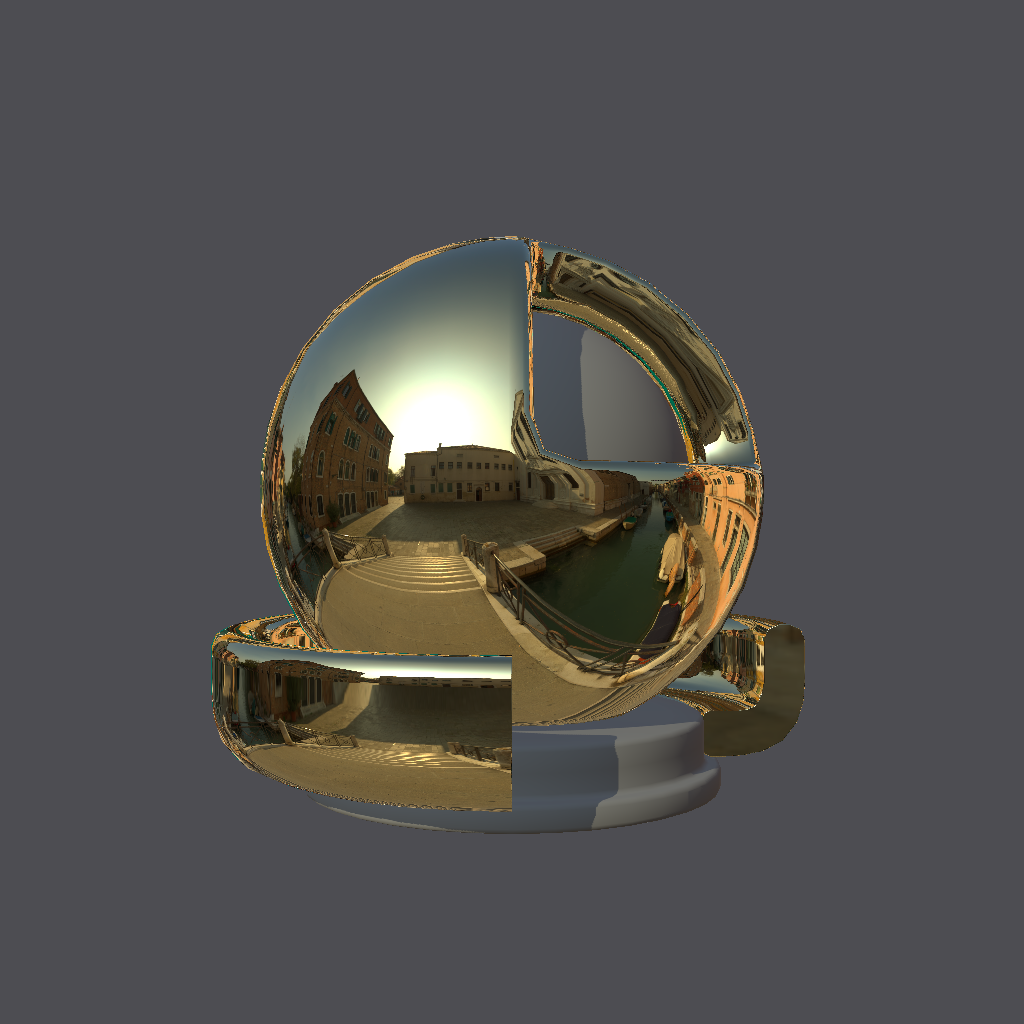
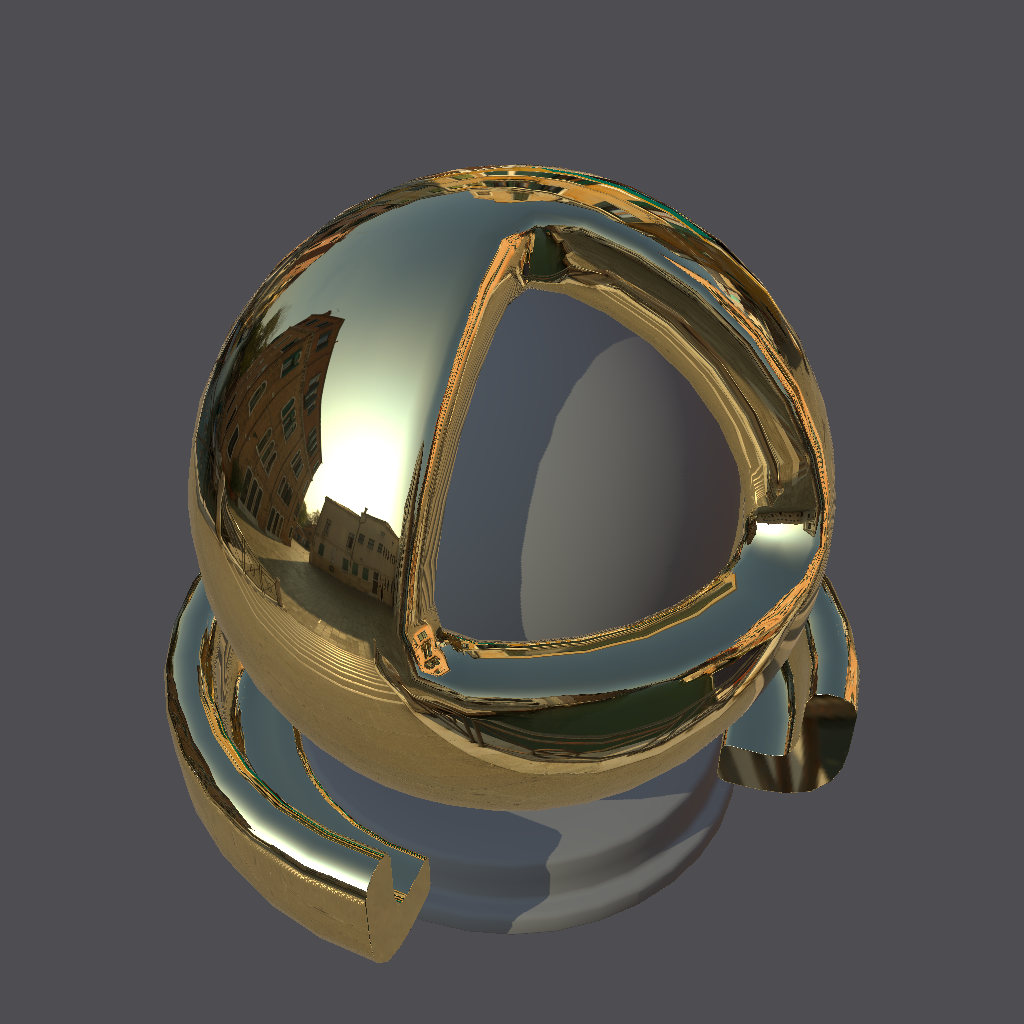
Approx match USD camera.

diff --git a/addlook.py b/addlook.py
@@ -84,7 +84,8 @@ def main():
 
             # Example:
             # python addlook.py ./StandardShaderBall/full_assets/StandardShaderBall/example_materials 
-            #   -r "MaterialXView --material %m --mesh %g --screenWidth 512 --screenHeight 512 --captureFilename %o" 
+            #   -r "MaterialXView --material %m --mesh %g --screenWidth 512 --screenHeight 512 --captureFilename %o
+            #       --cameraPosition 6.53154,14.5,17.9485 --cameraZoom 6" 
             #   --g ./standard_shader_ball_scene.glb
             if render_string:
                 # Fill in %g with GLB file name, and %m with material file name
